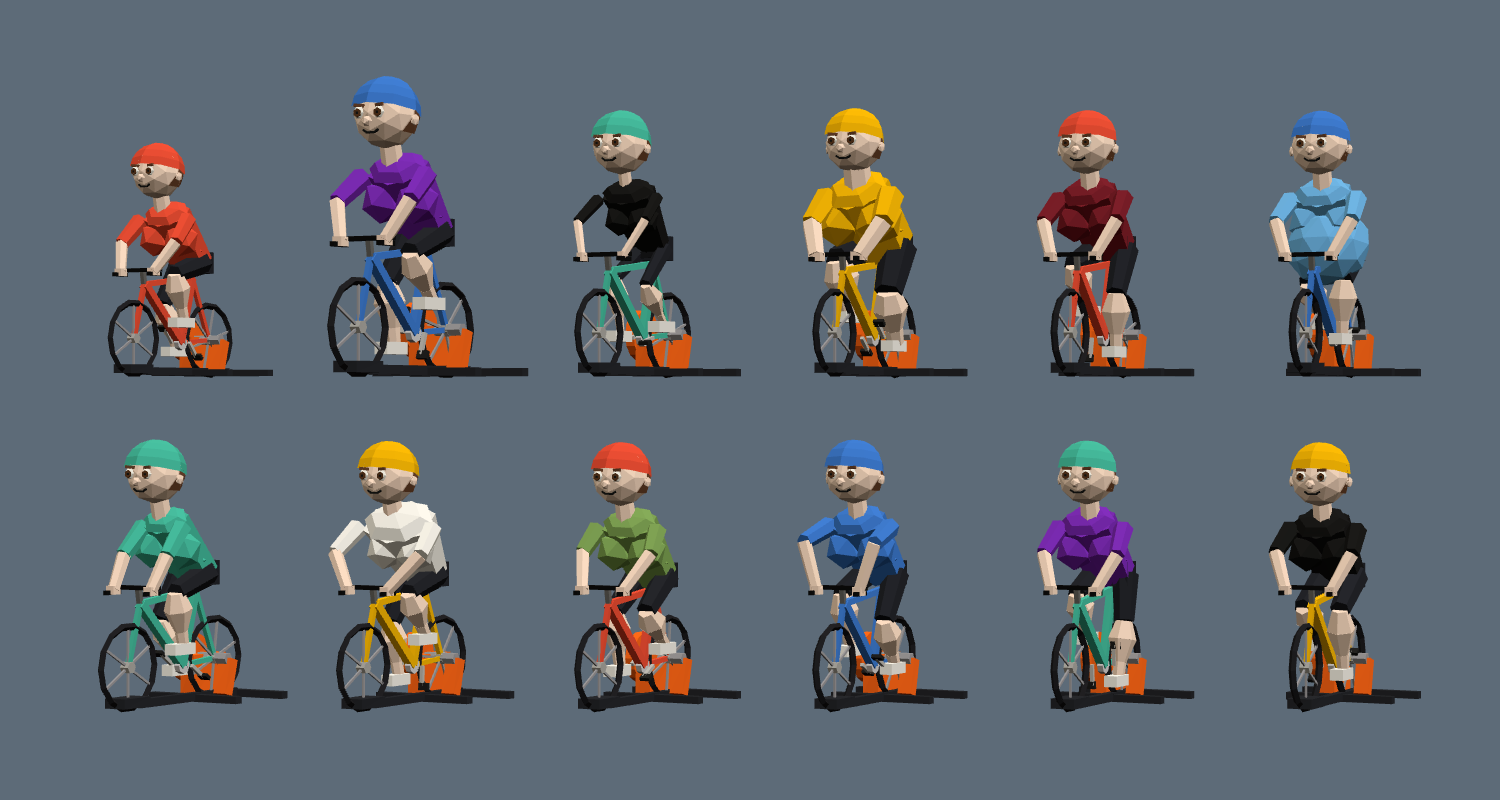
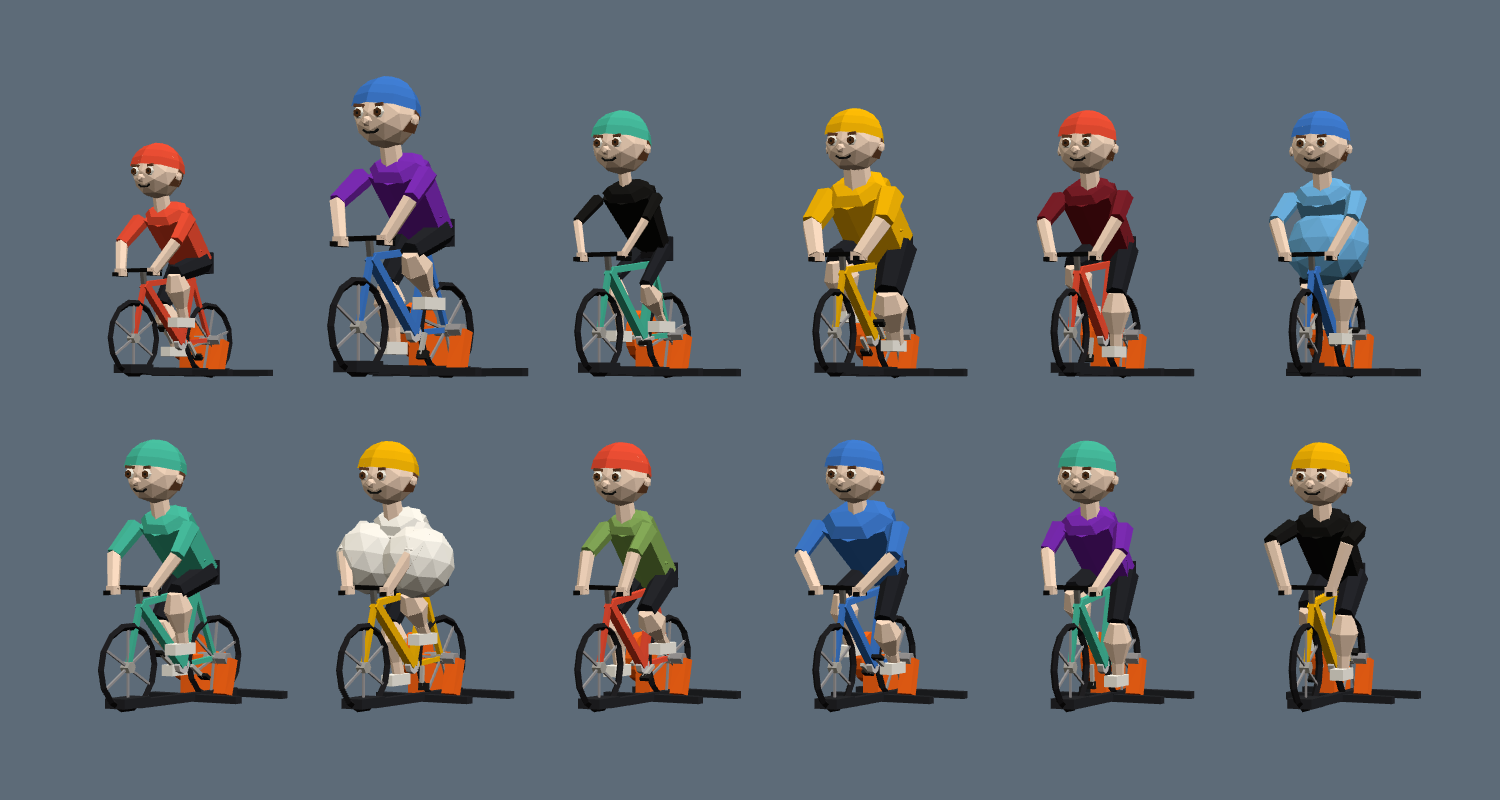
Rider bodies: a Chest slider replaces the old chest joke on riders (off by default, in Randomise, maxed by the Top heavy preset); zombies unchanged
Claude-Session: https://claude.ai/code/session_01MNeLDAU7NtgWeEPofMKfgt

diff --git a/client/src/scene/riderBody.ts b/client/src/scene/riderBody.ts
@@ -1,7 +1,6 @@
 import * as THREE from 'three'
 import type { Body } from '../core/body'
 import { Figure, limb, SLOT } from './figure'
-import { VIS } from './params'
 import { lerp } from './util'
 
 /** The limits each body slider runs between (at 0 and at 100). Lengths in metres, the rest multipliers. */
@@ -10,6 +9,8 @@ export const BODY_RANGE = {
   thick: [0.72, 1.55],
   girth: [0.8, 1.4],
   belly: [0, 0.36],
+  /** Chest: the radius of each half, from none to well past the zombies' joke size (VIS.bust, 0.17). */
+  chest: [0, 0.3],
   shoulders: [0.19, 0.36],
   arms: [0.8, 1.2],
   legs: [0.85, 1.15],
@@ -84,20 +85,22 @@ export function buildBody(b: Body) {
       [0, 0, 0],
       [1, 0.35, deep],
     )
+  // Chest and belly are always in the mesh (shrunk to nothing at zero), so every body has the same vertices.
+  const bust = Math.max(0.001, at(BODY_RANGE.chest, b.chest))
   for (const s of [-1, 1])
-    f.add(new THREE.IcosahedronGeometry(VIS.bust * lerp(0.8, 1.2, b.build / 100), 0), SLOT.jersey, [
-      s * 0.13 * g,
+    f.add(new THREE.IcosahedronGeometry(bust, 1), SLOT.jersey, [
+      s * Math.max(0.13 * g, bust * 0.72),
       0.4,
-      -0.2 * deep + 0.02,
+      -chest * deep * 0.55 - bust * 0.45,
     ])
-  if (belly > 0.02)
-    f.add(
-      new THREE.IcosahedronGeometry(1, 1),
-      SLOT.jersey,
-      [0, 0.17 + belly * 0.1, -belly * 0.55],
-      [0, 0, 0],
-      [Math.max(waist, belly * 0.95), belly * 0.85, belly],
-    )
+  const gut = Math.max(0.001, belly)
+  f.add(
+    new THREE.IcosahedronGeometry(1, 1),
+    SLOT.jersey,
+    [0, 0.17 + gut * 0.1, -gut * 0.55],
+    [0, 0, 0],
+    [belly > 0.02 ? Math.max(waist, gut * 0.95) : gut, gut * 0.85, gut],
+  )
   f.part('hips').add(new THREE.BoxGeometry(d.hip * 2 + 0.1 * k, 0.2, 0.26 * deep), SLOT.shorts)
   f.part('neck').add(limb(0.075 * k, 0.065 * k), SLOT.skin)
   const skinLow = b.tan ? SLOT.pale : SLOT.skin

diff --git a/client/src/core/body.ts b/client/src/core/body.ts
@@ -62,7 +62,9 @@ export function defaultBody(id: string): Body {
   return Object.fromEntries(
     BODY_FIELDS.map((f) => {
       const v = r()
-      if (f.type === 'slider') return [f.key, clampTo(f, f.def + (v - 0.5) * DEFAULT_SPREAD)]
+      // A slider that is off by default (chest) stays off.
+      if (f.type === 'slider')
+        return [f.key, f.def ? clampTo(f, f.def + (v - 0.5) * DEFAULT_SPREAD) : 0]
       if (f.normal) return [f.key, f.normal[Math.floor(v * f.normal.length)]]
       return [f.key, f.def]
     }),

diff --git a/client/tests/body.test.ts b/client/tests/body.test.ts
@@ -71,6 +71,8 @@ describe('rider body data', () => {
   it('uses the saved body when a look has one, else the default', () => {
     const b = presetBody('Bobblehead')
     expect(b.head).toBe(100)
+    expect(presetBody('Top heavy').chest).toBe(100)
+    expect(defaultBody('luke').chest).toBe(0)
     expect(bodyOf('luke', withBody({}, b))).toEqual(b)
     expect(bodyOf('luke', { body: 'junk' })).toEqual(defaultBody('luke'))
     expect(bodyOf('luke', undefined)).toEqual(defaultBody('luke'))

diff --git a/client/tests/riderModel.test.ts b/client/tests/riderModel.test.ts
@@ -27,6 +27,11 @@ describe('rider model', () => {
     expect(most).toBeGreaterThan(500)
   })
 
+  it('has the same vertices whatever the body, so chest and belly can be painted', () => {
+    const n = buildBody(all(0)).triangles
+    for (const b of bodies.slice(0, 80)) expect(buildBody(b).triangles).toBe(n)
+  })
+
   it('has every part the pose moves, and no broken vertices', () => {
     for (const b of bodies.slice(0, 60)) {
       const f = buildBody(b)

diff --git a/docs/decisions.md b/docs/decisions.md
@@ -843,3 +843,4 @@ Phase B2 item 3: the solo workout player and the Zombie Bus ride now read like t
 - Body sync: the body rides in the look, so it goes everywhere a look already went (profile, join, lobbies, group rides, TV views) with no new message fields; a rider rebuilds when the look it is given has a different `body`. The server checks it in the join message (a validator on `Join.look`) and in `PUT /api/profile`: right version and count, digits only, every value clamped to its range, at most 200 characters (`BODY_MAX_CHARS`); a bad one is dropped and the rider shows their default. The default is made on each client from the rider's id, so everyone sees the same body for a rider who hasn't made one, bots included. Old clients ignore the extra key and their riders show defaults.
 - Bodies everywhere: the bus, VO2 Madness, free and group rides and the TV views all draw riders through `makeRider`, so they have them already, and postcards are stills of those scenes. The Garage's item pictures now put each hat, outfit and bike on the rider's own body (the pictures are cached per rider and body). The ghost of my own best effort has my body (not my hat: a ghost is made see-through once, when it appears); a mate's ghost has the default body for that mate, because a ghost comes from a saved effort, which carries no look. Postcards rebuilt in History have no riders in them, as before.
 - Screenshots of the body grids are in `docs/screenshots/avatars/` (random, extremes, presets, hair bare and under a helmet, faces, defaults, running, and the creator). Reviewed for broken limbs, floating hats and clipping; what was fixed on the way: hair caps poking through the skull's facets (hair is now a shell of the skull's own facets), eyebrows under the helmet rim (face lowered, headwear raised and tipped back), and the comb-over floating above the scalp.
+- The old chest joke (two spheres on every rider, `VIS.bust`, from commit 968d6bc) is off riders and is now the Chest slider on the creator's Body tab: none (the default, and every default body) up to a 0.3 m radius each, well past the old 0.17. It is part of Randomise and the "Top heavy" preset maxes it. Chest and belly are always in the body mesh, shrunk to nothing at zero, so every body has the same vertices and the outfit colour paints over them. At the top of the slider the arms pass through it; that is left as it is. Zombies keep theirs, still on `VIS.bust`. The body table now has 25 options (nothing had been saved with 24, as it was never pushed).

diff --git a/docs/avatars.md b/docs/avatars.md
@@ -18,7 +18,7 @@ Free, body only. Hats, outfits and bikes stay Garage cosmetics and must fit ever
 
 ## Options
 Sliders are 0 to 100, pickers are an index. All in one table, `content/avatar.json`, read by the client (the creator screen is generated from it) and the server (validation).
-- Body: height, build, belly, shoulders, arm length, leg length, calves, head size, neck.
+- Body: height, build, belly, chest, shoulders, arm length, leg length, calves, head size, neck.
 - Skin: tone (realistic range plus zombie green, sunburnt lobster, Smurf blue, chrome), cyclist's tan line.
 - Hair: style (bald, buzz, short, mullet, mohawk, afro, man bun, ponytail, rat tail, curtains, comb-over, spikes, big perm, bowl cut), colour (natural and silly), facial hair (none, moustache, handlebar, horseshoe, beard, goatee, mutton chops).
 - Face: eye shape, size, colour and spacing, googly eyes, eyebrows (incl. bushy and unibrow), nose size and shape, ear size, mouth and teeth (smile, grin, gap, buck teeth, frown, open).
